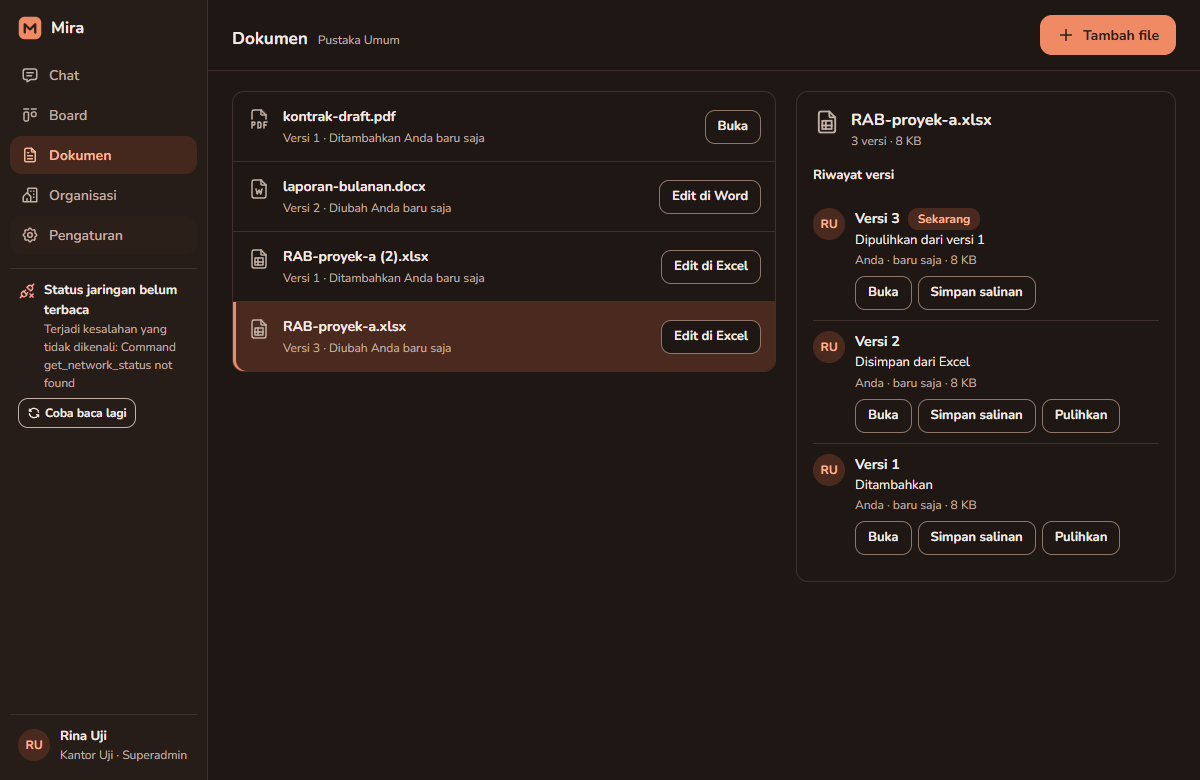
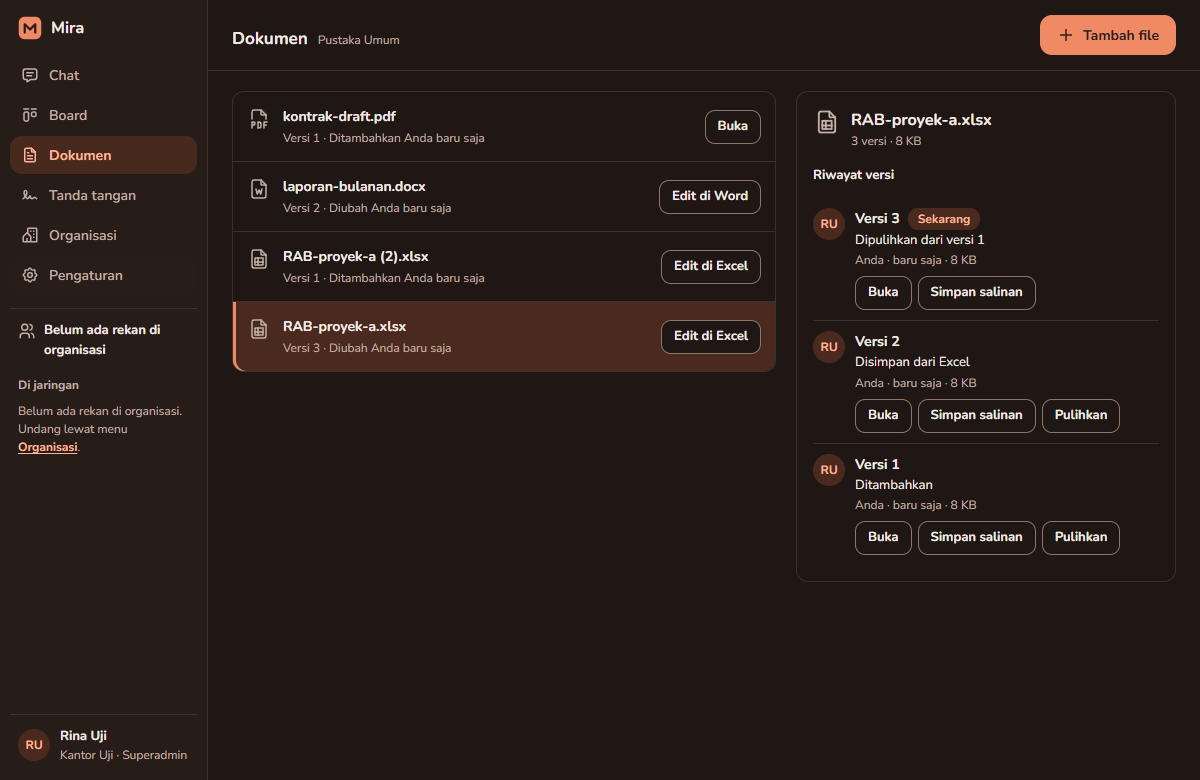
Laporan sinkron dokumen dan tanda tangan, rencana diperbarui, screenshot uji dari build final

Changed region(s): [[0.0, 0.3385, 0.1542, 0.5846], [0.0, 0.2462, 0.1233, 0.3077]]

diff --git a/docs/progress/sinkron-dokumen-ttd.md b/docs/progress/sinkron-dokumen-ttd.md
@@ -1,0 +1,209 @@
+# Laporan: sinkron dokumen dan tanda tangan antar laptop
+
+Tanggal: 23 November 2026. Branch: `claude/sinkron-dokumen-ttd-8e6530`, dibuat dari `main` 63eb72b. Rencana: `docs/plans/sinkron-dokumen-ttd.md`.
+
+## Ringkasan
+
+Dokumen dan tanda tangan sekarang sampai ke laptop rekan yang berhak, lewat kontrak `network/feature.rs`.
+- **Dokumen:** dokumen baru, versi baru, dan tanda "Sedang diedit" ikut tersinkron.
+  - File sampai 20 MB disalin otomatis. File lebih besar diunduh lewat tombol "Unduh dari rekan".
+  - Kalau dua laptop menyimpan versi saat offline, kedua versi disimpan dan ditandai bentrok.
+- **Tanda tangan:** permintaan, versi bertanda tangan, dan pembatalan ikut tersinkron.
+  - Urutan berurutan ditegakkan di semua laptop.
+  - Versi baru harus terbukti hanya menambah stempel. Mesin mengeceknya dari byte file.
+
+Transport sungguhan belum digabung, jadi uji antar laptop memakai dua jalur:
+- tes Rust tiga laptop di memori (`network::feature::testing`);
+- uji ujung ke ujung dengan dua instance aplikasi, lewat jembatan uji berbasis folder.
+
+Hasil uji: `cargo test` 604 lulus, 0 gagal. Clippy bersih. Vitest 436 lulus. Ketiga uji ujung ke ujung lulus:
+- dokumen: 15/15;
+- tanda tangan: 15/15;
+- dua instance: 26/26.
+
+Semua di-commit di branch ini. Tidak ada push dan tidak ada merge ke `main`.
+
+## Yang dibuat
+
+**Fondasi bersama**
+- `documents/envelope.rs`: amplop bertanda tangan untuk setiap record. Isinya penulis, isi JSON apa adanya, dan tanda tangan Ed25519 atas `domain\npenulis\nisi`. Domain dokumen dan tanda tangan dibedakan, jadi record satu fitur tidak bisa dipakai di fitur lain.
+- `documents/scope.rs`: siapa boleh melihat dan menulis di Pustaka Umum, tim, atau proyek, untuk kunci mana pun (laptop sendiri maupun rekan).
+- `documents/sync_schema.rs`: satu entri migrasi (v6 di branch ini).
+- `documents/test_lab.rs`: tes beberapa laptop dalam satu organisasi.
+
+**Dokumen** (`documents/peer_sync.rs`, `access.rs`, `runtime.rs`, `commands.rs`, `view.rs`)
+- Record `doc`, `ver`, dan `edit`, masing-masing ditandatangani penulisnya. Penerima memeriksa tanda tangan, keanggotaan aktif, dan hak menulis di cakupan dokumen. Cakupan selalu diambil dari dokumen yang tersimpan, bukan dari pengirim.
+- Versi yang datang sebelum dokumennya disimpan menunggu, lalu diterapkan begitu dokumennya datang.
+- Tanda "Sedang diedit" diulang setiap 4 menit selama mengedit. Tanda yang lebih tua dari 10 menit tidak dikirim lagi.
+- Pengirim hanya menawarkan record yang boleh dilihat penerima, dan menyaring ulang saat mengirim.
+- File hanya disajikan ke rekan yang boleh melihat dokumennya. Hasil unduhan dicek hash-nya sebelum masuk blob store.
+- Perintah baru `download_version` untuk file besar.
+- Kait `scope_allows` sekarang tersambung ke `permissions::OrgState`.
+
+**Tanda tangan** (`signing/peer_sync.rs`, `service.rs`, `store.rs`, `outbox.rs`, `commands.rs`)
+- `DocumentStore` sekarang memakai blob store Tahap 4. File lama di `ttd-berkas/` dipindah saat pertama dibaca.
+- Record `request`, `signed`, dan `cancelled` ditulis dalam transaksi yang sama dengan perubahan lokal. Penerima memeriksa:
+  - setiap catatan audit dengan `seal::verify_event`, dengan pelaku sama dengan penulis record;
+  - pengirim, penanda tangan, dan aturan Tamu.
+- Keadaan permintaan dihitung ulang dari semua record sah ("fold"). Hasilnya sama di semua laptop yang memegang record dan file yang sama. Rantai jejak audit tetap sah di setiap laptop.
+- Permintaan bisa punya proyek (`team_id`, `project_id`). Tamu hanya bisa jadi penanda tangan di proyek yang diizinkan untuknya, dan tidak bisa meminta tanda tangan.
+- File sampai 20 MB diunduh otomatis. File lebih besar lewat perintah `sign_download_file`.
+- Notifikasi Windows "Giliran Anda menandatangani" muncul sekali per permintaan dan versi.
+
+**Bukti stempel** (`signing/increment.rs`, `src/screens/sign/stamp.ts`): dijelaskan di bagian keputusan.
+
+**Tampilan**
+- **Dokumen:** status "sedang disalin", tombol "Unduh dari rekan" untuk file besar, dan kotak bentrok yang menyebut nama pembuat tiap versi ("Versi 3 dari Budi Uji").
+- **Tanda tangan:**
+  - bagian "Menunggu tanda tangan Anda" dengan "Diminta oleh ...";
+  - tombol unduh file;
+  - daftar versi yang ditolak, dengan alasan dalam kalimat biasa;
+  - pilihan proyek di permintaan baru.
+- Kedua layar memuat ulang saat event `mira://feature` datang.
+
+**Alat uji**
+- `src-tauri/src/feature_bridge.rs`: jembatan uji antar instance. Hanya aktif dengan `MIRA_TEST_BRIDGE_DIR`; tanpa itu semua perintahnya ditolak.
+- `scripts/sync-e2e.mjs` (`npm run test:e2e-sync`).
+- `scripts/make-sign-fixtures.mjs` dan 17 file PDF uji di `src-tauri/tests/fixtures/sign/`.
+
+## Keputusan
+
+| Keputusan | Alasan |
+|---|---|
+| **Bukti stempel = incremental update PDF.** Frontend tidak lagi menyimpan ulang seluruh file. Byte versi lama dibiarkan persis, lalu objek baru dan objek yang berubah ditambahkan di belakang dengan xref `/Prev`. Inti Rust menolak versi baru kecuali versi lama adalah awalan byte yang persis, dan isi tambahannya lolos aturan di bawah. | Awalan byte saja tidak cukup, karena incremental update bisa mendefinisikan ulang objek apa pun. Jadi kedua versi diurai dengan lopdf dan setiap objek yang berubah harus masuk daftar yang diizinkan. Versi lama tetap utuh di dalam file baru, jadi selalu bisa dibandingkan. |
+| **Yang boleh berubah:** kamus halaman (hanya `/Contents` dengan isi lama utuh, dan `/Resources` yang hanya bertambah), simpul `/Pages` (hanya menambah halaman di akhir), dan kamus Info. Katalog tidak boleh berubah. Aksi aktif (`/JS`, `/AA`, `/OpenAction`, `/Launch`, dan sejenisnya) ditolak di mana pun. | Diukur dari apa yang benar-benar disentuh pdf-lib saat menstempel. |
+| **Aturan isi stempel di halaman lama:** hanya operator gambar dan teks. Gambar harus PNG dengan transparansi, rata-rata keburaman paling banyak 50%, dan tanpa piksel putih yang buram. Semua tanda (gambar dan keterangan) harus masuk satu kotak, paling luas 15% halaman. Keterangan paling banyak 120 huruf dan 12 pt, hanya Helvetica atau Courier. | Ditemukan review keamanan: aturan awal masih membiarkan gambar putih kecil menutupi "Rp 10.000.000" lalu menimpanya dengan angka lain. Tanda tangan asli adalah goresan gelap di atas latar transparan, jadi aturan ini tidak menolaknya. |
+| **Halaman tambahan hanya dari penanda tangan terakhir** (halaman catatan), dan isinya hanya teks dan garis tipis. | Mencegah penanda tangan di tengah menyisipkan "adendum" palsu. |
+| **Kotak tanda tangan yang terlalu besar dikecilkan di sekitar titik tengahnya** sebelum distempel (lebih dari 12% halaman). | Supaya stempel yang sah selalu lolos aturan 15%. Akibatnya stempel bisa lebih kecil dari kotak yang digeser di layar. |
+| **Id dokumen, versi, dan permintaan diturunkan dari kunci penulis:** BLAKE3(awalan, kunci penulis, salt acak), dan salt ikut dalam record. | Ditemukan review keamanan: tanpa ini, rekan bisa lebih dulu memakai id milik orang lain, sehingga isi di tiap laptop berbeda selamanya. |
+| **Larangan memakai ulang file.** Versi atau permintaan yang menunjuk file yang sudah dipakai di cakupan lain, yang tidak bisa dilihat penulisnya, ditolak. | Mencegah file tim bocor ke Pustaka Umum hanya dengan menyebut sidik filenya. |
+| **Batas antrean:** dokumen paling banyak 1000 record tertunda per penulis; tanda tangan 200 per penulis dan 5 record ditolak per penanda tangan per permintaan. Record tertunda yang lebih tua dari 7 hari dibuang. Record tertunda dari Tamu tidak disimpan. | Mencegah disk dan CPU dipenuhi record sampah. |
+| **Mode bebas, dua tanda tangan bersamaan saat offline:** pemenangnya yang waktunya paling awal, lalu kunci terkecil. Yang kalah ditandai ditolak ("ditandatangani bersamaan") dan penanda tangannya tetap menunggu giliran. | Hasilnya sama di semua laptop tanpa koordinasi. |
+| **Batal vs selesai:** pembatalan berlaku hanya kalau permintaan belum punya catatan selesai yang sah. | Keputusan yang sama di semua laptop. |
+| **Anggota yang dikeluarkan:** record-nya ditolak, termasuk yang dibuat sebelum dikeluarkan. | Waktu di record bisa dipalsukan. Ini mengorbankan sedikit konvergensi demi keamanan. |
+| **Pemeriksaan PDF berjalan di luar kunci inti** saat menerima record dan setelah unduhan. Hasilnya disimpan di `sign_proof_checks`. Ada batas total dekompresi dan jumlah objek. | PDF besar tidak membekukan aplikasi. PDF yang sengaja dirusak tidak bisa menghabiskan memori. |
+| **Tamu di Pustaka Umum tidak melihat apa pun.** | Sesuai aturan cakupan di rencana. Tes lama yang menganggap sebaliknya sudah diperbaiki. |
+| **PIN tetap 6 sampai 12 angka.** | Belum diputuskan user. |
+
+## Hasil uji (apa adanya)
+
+| Pemeriksaan | Hasil |
+|---|---|
+| `cargo test` | 604 lulus, 0 gagal, 7 diabaikan (tes lama yang butuh firewall, keyring, jaringan sungguhan) |
+| `cargo clippy --all-targets -- -D warnings` | bersih |
+| `npx vitest run --maxWorkers=2` | 31 file, 436 tes lulus |
+| `npx tsc --noEmit` | tanpa error |
+| `npm run test:e2e:docs` (satu laptop) | 15/15 |
+| `npm run test:e2e-ttd` (satu laptop) | 15/15 |
+| `npm run test:e2e-sync` (dua instance, baru) | 26/26 |
+
+Tes Rust tiga laptop mencakup:
+- **Konvergensi:** versi dari rekan, bentrok offline, dan versi yang datang sebelum dokumennya.
+- **File:** blob besar tidak disalin otomatis tetapi bisa diunduh; file tidak disajikan ke yang tidak berhak.
+- **Batas akses:** Tamu, anggota tim lain, anggota yang dikeluarkan, dan penerusan lewat laptop ketiga.
+- **Record palsu:** record palsu, penulis palsu, dan id yang diserobot.
+- **Tanda tangan:**
+  - permintaan berurutan A lalu B lalu C, dengan C yang mencoba lebih dulu ditolak;
+  - tanda tangan bersamaan di mode bebas;
+  - versi yang mengubah isi selain stempel ditolak di semua laptop;
+  - catatan audit palsu ditolak;
+  - pembatalan, dan pembatalan setelah selesai yang diabaikan;
+  - notifikasi giliran.
+- **Pemeriksa stempel:** 32 tes. Di antaranya rantai stempel dari pdf-lib asli (file klasik, object stream, resource warisan), lalu penolakan:
+  - gambar putih yang menutup total;
+  - teks yang diubah dan MediaBox yang diubah;
+  - stempel yang menyebar ke dua sudut;
+  - halaman tambahan bergambar;
+  - xref raksasa.
+
+Uji dua instance (`scripts/sync-e2e.mjs`, Ayu dan Budi di satu PC):
+- **Keanggotaan:** lewat jaringan Tahap 1 yang asli.
+- **Record dan file fitur:** lewat jembatan uji.
+- **Yang dicek:**
+  - dokumen dan isinya sampai ke B;
+  - bentrok offline tampil di kedua layar dengan nama rekan;
+  - file 21 MB tidak disalin otomatis dan bisa diunduh lewat tombol;
+  - permintaan berurutan B lalu A, ditandatangani lewat layar asli dengan PIN;
+  - kedua laptop selesai dengan kunci sah dan sidik file akhir yang sama;
+  - tidak ada record yang ditolak.
+
+Screenshot ada di `docs/progress/screenshots/sinkron/`:
+
+| File | Isi |
+|---|---|
+| `sinkron-02-bentrok-dari-rekan-a.png` | Bentrok sungguhan dari rekan |
+| `sinkron-03` | Bentrok yang sama, di laptop B |
+| `sinkron-10` | Bentrok, mode gelap |
+| `sinkron-04` dan `05` | File besar, sebelum dan sesudah diunduh |
+| `sinkron-06` | Menunggu tanda tangan |
+| `sinkron-08` dan `09` | Selesai di kedua laptop |
+
+Screenshot Tahap 4 dan 5 (`12-*` sampai `18-*` dan `t5-*`) dibuat ulang dari build ini. Nama dan isi di gambar adalah data uji.
+
+Masalah yang ditemukan dan diperbaiki selama kerja:
+- **Deadlock di `InFlight::begin`.** `then_some` membuat lalu membuang penanda unduhan sambil memegang mutex yang dikunci lagi oleh `Drop`-nya. Satu tes macet berjam-jam sebelum ketahuan. Sekarang semua tes dijalankan dengan batas waktu.
+- **Review keamanan:** 6 temuan, semuanya diperbaiki atau dibatasi (lihat Keputusan).
+- **Review tampilan:**
+  - alasan penolakan sekarang memakai kode, sehingga orang dan kalimatnya benar;
+  - tombol tanda tangan ditahan saat versi rekan belum sampai;
+  - status "sedang disalin" sekarang jujur;
+  - ukuran unduhan sesuai dengan yang benar-benar diambil;
+  - unduhan tidak lagi mengunci tombol lain.
+
+## Belum dicek atau masih terbatas
+
+- **Belum diuji lewat transport sungguhan dan di beberapa laptop fisik.** Uji dua instance memakai jembatan folder.
+- **Sisa risiko bukti stempel:**
+  - di dalam kotak stempelnya sendiri, penanda tangan masih bisa menulis teks sampai 12 pt (juga putih) atau menaruh bidang abu-abu yang terlihat;
+  - penanda tangan terakhir bisa menambah halaman teks yang meniru halaman kontrak;
+  - PDF yang harus "diperbaiki" lopdf tidak bisa ditandatangani (ditolak sebelum PIN);
+  - belum dicoba dengan PDF dari Word, Acrobat, atau pemindai.
+- **Stempel yang bertumpuk.** Screenshot `sinkron-08` menunjukkan dua stempel di posisi yang sama (skrip uji memilih posisi yang sama), sehingga keterangan nama bertumpuk. Saran: layar memperingatkan kalau kotak baru menimpa stempel lama.
+- **Record format lama (dokumen dari sebelum sinkron, tanpa salt)** masih bisa "diserobot" kalau sampai lebih dulu di laptop yang belum mengenal id-nya. Data seperti itu hanya ada di folder uji.
+- **Batas 5 record ditolak per penanda tangan** bisa membuat laptop berbeda pendapat, tetapi hanya untuk penanda tangan yang sengaja atau buggy mengirim banyak versi salah.
+- **File versi yang ditolak tidak dibagikan,** jadi di laptop lain langkah itu tetap "menunggu file". Klien jujur tidak menghasilkan versi seperti ini.
+- **PIN 6 angka** tetap bisa ditebak kalau kunci laptop dan `mira.db` sama-sama dicuri (catatan Tahap 5).
+- **Office** belum berlisensi di laptop ini, jadi simpan Excel dan Word memakai pola file seperti Tahap 4. HiDPI 150% belum dicoba.
+
+## Titik sambung
+
+| Titik | Di mana | Saat merge |
+|---|---|---|
+| Proyek yang boleh dibuka Tamu | trait `GuestProjects` di `documents/scope.rs`; implementasi sementara `InviteGuestProjects` membaca proyek dari undangan Tamu | ganti dengan fungsi asli dari sesi sinkron board |
+| Transport fitur | `FeatureHub::set_link`; dokumen dan tanda tangan mendaftar `FeatureSync` dan `BlobSource` saat start | transport cukup memanggil `set_link`; event `mira://feature` `{topic}` sudah didengar tampilan |
+| Jembatan uji | `feature_bridge.rs`, dipasang di `lib.rs` hanya kalau `MIRA_TEST_BRIDGE_DIR` diisi | transport jangan menimpa link saat variabel itu ada, atau hapus jembatan dan ubah `sync-e2e.mjs` memakai transport asli (pompa record dihapus) |
+| F-SIGN-06 (kartu task pindah ke Selesai) | catatan `completed` di `service::complete` dan di fold | butuh board |
+
+Kekurangan kontrak `feature.rs` (tidak diubah, hanya dicatat):
+- Tidak ada kait "rekan terputus" dan tidak ada cara membatalkan `fetch_blob`. Unduhan otomatis dicoba lagi saat `peer_connected` atau saat record baru datang.
+- Transport hanya memancarkan `mira://feature` setelah `ingest`. Selesainya unduhan dipancarkan sendiri oleh fitur (`mira://documents` dan `mira://feature` `{topic:"sign"}`).
+
+## Catatan merge
+
+- **Basis.** Branch ini dibuat dari 63eb72b. Selama kerja, `main` sudah maju (sekitar 60 commit dari sesi lain), jadi merge perlu menyelesaikan konflik di bawah.
+- **Migrasi.** Satu entri `crate::documents::sync_schema::SYNC_SCHEMA` di akhir `MIGRATIONS` (v6 di sini, rencana final v8). Isinya:
+  - tabel `docs_sync_records`, `sign_sync_records`, `sign_proof_checks`, `sign_notified`;
+  - kolom `team_id` dan `project_id` di `sign_requests`.
+  - Tes `documents::schema` mengecek `latest_version() == 6` dan membuang tabel sinkron; sesuaikan nomornya. Hapus folder data uji lama sebelum mencoba.
+- **`lib.rs`:**
+  - `pub mod feature_bridge;`;
+  - hub dibuat lalu, kalau ada variabel jembatan, `set_link` jembatan, baru `app.manage(hub)`;
+  - `signing::peer_sync::register(app.handle());` setelah `SignSessions`;
+  - perintah `documents::commands::download_version`, `signing::commands::sign_download_file`, dan empat `feature_bridge::debug_*`.
+  - `DocumentsRuntime::new` mendaftar ke hub sendiri, jadi hub harus di-`manage` sebelum runtime dokumen (sudah begitu).
+- **`Cargo.toml`:** `lopdf = "=0.47.0"` tanpa fitur bawaan.
+- **`package.json`:** skrip `test:e2e-sync` dan `fixtures:sign`.
+- **Tidak disentuh:** `network/feature.rs`, `network/node.rs`, `network/wire.rs`, `permissions/`, `design/`, `error.rs`. Kode error baru lewat `AppError::Signing { code }`: `version_not_prefix`, `version_changes_content`, `not_available`.
+- **Perubahan perilaku:** `list_candidates()` tanpa proyek tidak lagi menampilkan Tamu. `sign-e2e.mjs` sekarang mencari file final di `blobs/`, bukan `ttd-berkas/`.
+
+## Cara menjalankan
+
+```
+npm install
+npm test                                  # Vitest
+cd src-tauri; cargo test                  # inti Rust
+npx tauri build --debug --no-bundle       # build untuk uji ujung ke ujung
+npm run test:e2e:docs                     # dokumen, satu laptop
+npm run test:e2e-ttd                      # tanda tangan, satu laptop
+npm run test:e2e-sync                     # dua instance: bentrok, file besar, tanda tangan berurutan
+```

diff --git a/docs/plans/sinkron-dokumen-ttd.md b/docs/plans/sinkron-dokumen-ttd.md
@@ -83,8 +83,9 @@ Izin lokal: `access::scope_allows` disambung ke `scope::may_view` / `may_write` 
   1. `old` adalah awalan byte yang persis dari `new`;
   2. setelah kedua versi diurai (lopdf), objek yang berubah hanya: kamus halaman (hanya `/Contents` dengan isi lama utuh di tengah dan `/Resources` yang hanya bertambah), simpul `/Pages` (hanya menambah halaman di akhir), dan kamus Info;
   3. stream baru di halaman lama hanya berisi operator gambar dan teks (tanpa menggambar bidang yang bisa menutupi isi), gambar yang dipakai adalah gambar baru dan luasnya dibatasi;
-  4. paling banyak satu halaman baru di akhir (halaman catatan);
+  4. halaman baru hanya di akhir dan hanya dari penanda tangan terakhir (halaman catatan, isinya teks dan garis tipis);
   5. tidak ada aksi aktif (`/JS`, `/JavaScript`, `/AA`, `/OpenAction`, `/Launch`).
+- Diperketat setelah review keamanan (lihat laporan `docs/progress/sinkron-dokumen-ttd.md`): gambar stempel harus sebagian besar transparan tanpa piksel putih buram, semua tanda satu versi di satu halaman masuk satu kotak paling luas 15% halaman, keterangan paling banyak 120 huruf dan 12 pt, batas total dekompresi dan jumlah objek.
 - Dipakai di `service::complete` (laptop sendiri) dan saat menerima `signed` (laptop rekan). Hasil disimpan di `sign_proof_checks`.
 
 ## 6. Kontrak perintah dan tampilan (untuk UI)
